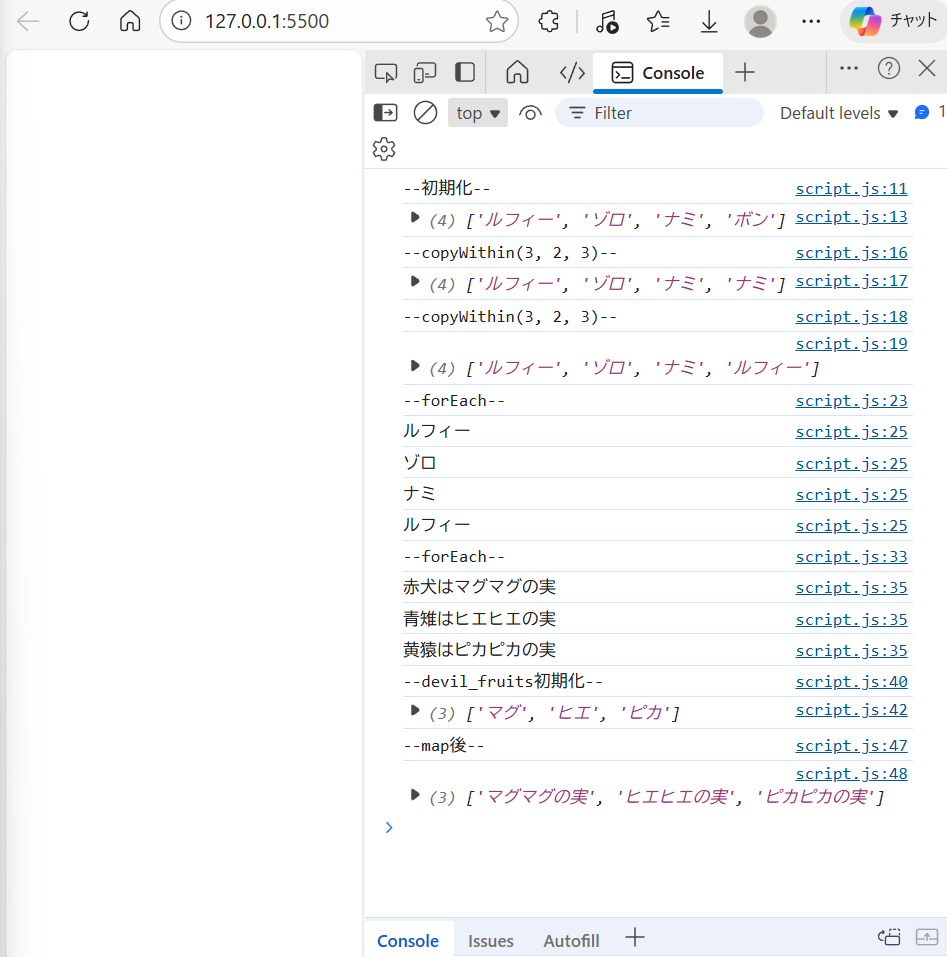
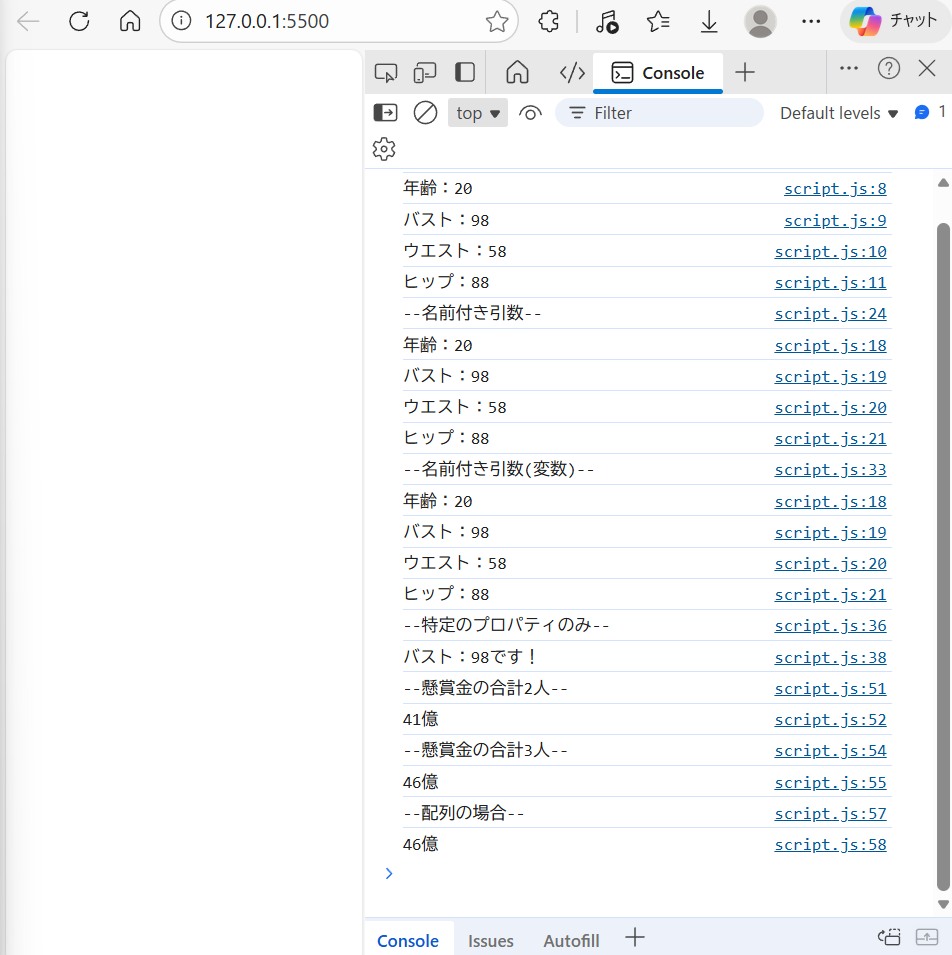
javascript エンジニアの休日21：2026/1/2
JavaScript  引数編 (プログラミング入門講座)

diff --git a/script.js b/script.js
@@ -1,150 +1,58 @@
-/* 配列(array)
-  ①追加・削除
-  ②配列に配列を連結
-  ③配列の要素位置を検索
-  ④配列を検索
-  ⑤配列の要素を結合
-  ⑥配列の一部を抜き出す
-  ⑦配列の内容を書き換える
-  ⑧特定の値で統一する
+/* 関数の引数
+　①名前付き引数を受け取る方法
+　②可変長引数の関数を定義する方法
+　③可変長引数(配列)の関数を定義する方法
 */
-console.log("--初期化--");
-let straw_hat_pirates = ["ルフィー", "ゾロ", "ナミ", "ボン"];
-console.log(straw_hat_pirates);
+//名前付き引数 ハッシュ形式で関数に引き渡せる引数
+let character = function (age, bust, waist, hip) {
+  console.log("年齢：" + age);
+  console.log("バスト：" + bust);
+  console.log("ウエスト：" + waist);
+  console.log("ヒップ：" + hip);
+}
+console.log("--普通の引数--")
+character(20, 98, 58 ,88);
+//何を引数で渡すかわからない
+//{},でわかりやすくすると
+function new_character({age, bust, waist,hip,}) {
+  console.log("年齢：" + age);
+  console.log("バスト：" + bust);
+  console.log("ウエスト：" + waist);
+  console.log("ヒップ：" + hip);
+}
 
-https://qiita.com/fuuchin/items/3081c84b5659b3d78bf6#copywithin
-console.log("--copyWithin(3, 2, 3)--");
-console.log(straw_hat_pirates.copyWithin(3, 2, 3));
-console.log("--copyWithin(3, 2, 3)--");
-console.log(straw_hat_pirates.copyWithin(3, 0, 1));
+console.log("--名前付き引数--")
+new_character({age: 20, bust: 98, waist: 58, hip: 88});
 
-//配列の中身を順に処理したい forEach
-// 配列.forEach(関数(要素)
-console.log("--forEach--");
-straw_hat_pirates.forEach(
-  (value) => console.log(value)
-);
+let nami = {
+    age: 20,
+    bust: 98,
+    waist: 58,
+    hip: 88,
+};
+console.log("--名前付き引数(変数)--")
+new_character(nami);
+// {}を変数に付けて渡す
+console.log("--特定のプロパティのみ--");
+function character_bust({ bust }) {
+  console.log("バスト：" + bust + "です！");
+}
+character_bust(nami);
 
-let admiral_members = [
-    { name: "赤犬", devil_fruit: "マグマグの実" },
-    { name: "青雉", devil_fruit: "ヒエヒエの実" },
-    { name: "黄猿", devil_fruit: "ピカピカの実" },
-];
-console.log("--forEach--");
-admiral_members.forEach(function (value) {
-  console.log(value.name + "は" + value.devil_fruit);
-});
+//可変長引数 引数の個数が決まっていない関数
+//スプレッド構文
+function total(...bounty) {
+  let result = 0;
+  for (let num of bounty ){
+    result += num
+  }
+  return result
+}
+console.log("--懸賞金の合計2人--");
+console.log(total(30, 11)+"億");
 
-//③配列の中身を加工して新しい配列を作成したい map
-//配列(関数(要素))
-console.log("--devil_fruits初期化--");
-let devil_fruits = ["マグ", "ヒエ", "ピカ"];
-console.log(devil_fruits);
-//devil_fruitsをmapでupdateし、新しい配列に格納
-let new_devil_fruits = devil_fruits.map(function(value){
-    return value.repeat(2) + "の実"
-});
-console.log("--map後--");
-console.log(new_devil_fruits);
-
-//④特定の条件で絞り込む filter(関数(要素))
-  //true のものだけ返し新しい配列を作成
-console.log("--初期化--");
-let devil_fruit_and_character = [
-    "バクバクの実",
-    "メロメロの実",
-    "チョッパー",
-    "イトイトの実",
-    "パンダマン"
-];
-console.log(devil_fruit_and_character);
-let devil_fruit_only =
-  devil_fruit_and_character.filter(function(value){
-    return (value.includes("実"))
-  });
-console.log("--filter後--");
-console.log(devil_fruit_only);
-
-//⑤条件にすべて合致するか判定したい every
-console.log("--初期化--");
-devil_fruit_and_character = [
-    "バクバクの実",
-    "メロメロの実",
-    "チョッパー",
-    "イトイトの実",
-    "パンダマン"
-];
-console.log(devil_fruit_and_character);
-let result = 
-  devil_fruit_and_character.every(function (value) {
-    return (value.includes("実"))
-  });
-console.log("--everyの結果--");
-console.log(result);
-console.log("--devil_fruit_only--");
-console.log(devil_fruit_only);
-console.log("--everyの結果--");
-result =
-  devil_fruit_only.every(function (value) {
-    return (value.includes("実"))
-  });
-console.log(result);
-
-//⑥条件に１つでも合致するか判定したい some
-console.log("--devil_fruit_and_character--");
-console.log(devil_fruit_and_character);
-result =
-  devil_fruit_and_character.some(function (value) {
-    return (value.includes("実"))
-  });
-console.log("--someの結果--");
-console.log(result);
-let character = ["チョッパー", "パンダマン"];
-console.log("--character--");
-console.log(character);
-result =
-    character.some(function (value) {
-        return (value.includes("実"))
-    });
-console.log("--someの結果--");
-console.log(result);
-
-//⑦任意の条件で検索したい find
-//最初に合致した要素を取得
-
-console.log("--devil_fruit_and_character--");
-console.log(devil_fruit_and_character);
-result =
-    devil_fruit_and_character.find(function (value) {
-        return (value.includes("実"))
-    });
-console.log("--findの結果--");
-console.log(result);
-
-//⑧要素を順に処理して、１つの結果にまとめたい reduce
-//  配列.reduce(関数(result, value))
-//          resultに直前行った関数の結果が入っている
-devil_fruits = [
-    "バクバクの実",
-    "メロメロの実",
-    "イトイトの実"
-];
-// 「バクバクの実」「メロメロの実」「イトイトの実」
-console.log("--reduceの結果--")
-result =
-    devil_fruits.reduce(function (result, value) {
-        return (result + "「" + value + "」")
-    });
-console.log(result);
-console.log("--検索値の初めには「」が付かない--");
-/* １回目        result
-             "バクバクの実" + "「" + "メロメロの実" + "」"
-   ２回目        result
-   "バクバクの実「メロメロの実」"+ "「" + "イトイトの実" + "」"
-*/
-console.log("--初期値設定--")
-result =
-    devil_fruits.reduce(function (result, value) {
-        return (result + "「" + value + "」")
-    }, "");
-console.log(result);
+console.log("--懸賞金の合計3人--");
+console.log(total(30, 11, 5)+"億");
+//配列の場合は、...を付ける
+console.log("--配列の場合--");
+console.log(total(...[30, 11, 5]) + "億");
